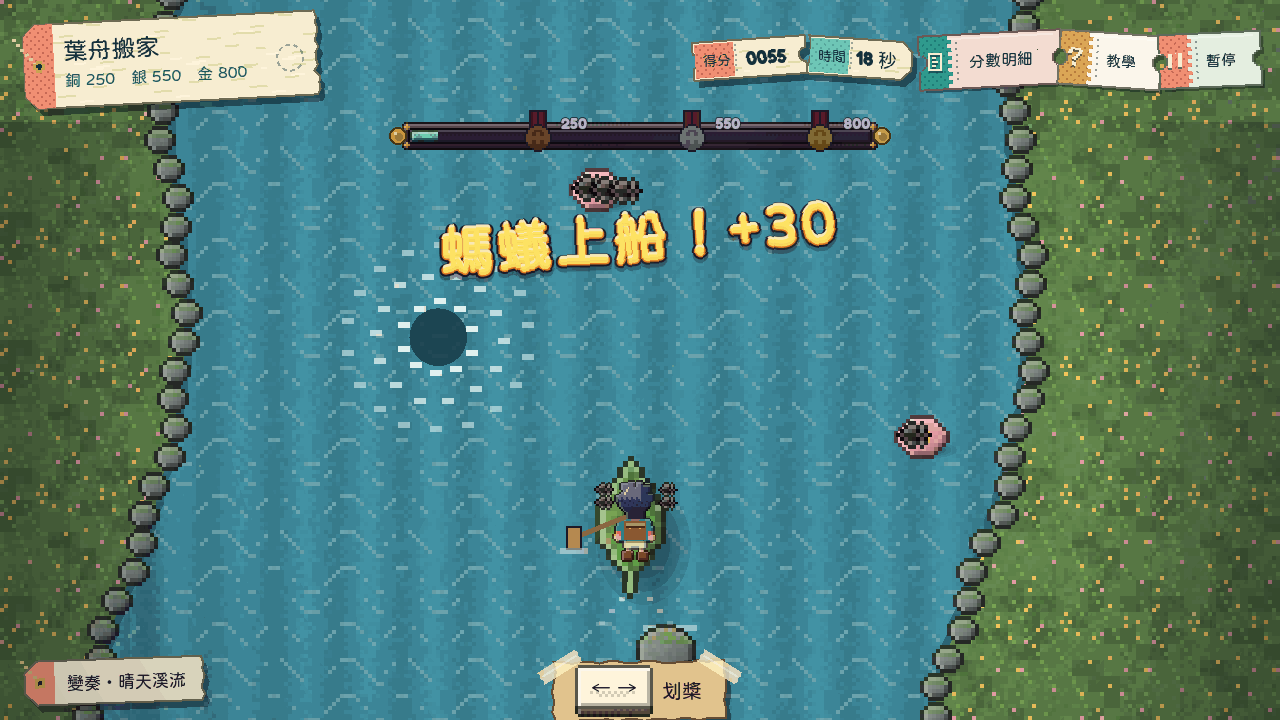
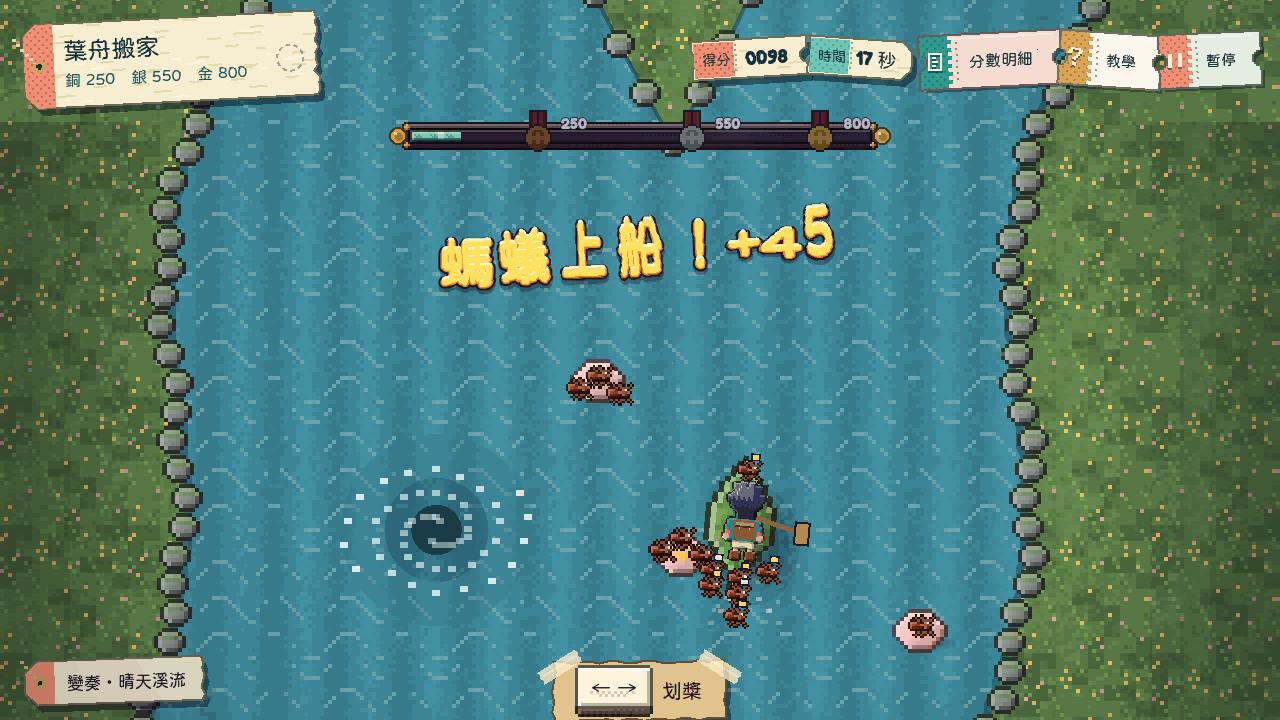
fix: draw the leaf boat ants red-brown with legs and crumbs, the rocks as mossy stones in foam and the whirlpools as spirals (SG-99)

diff --git a/pm/Snapland-small-game/[SG-99]實作葉舟搬家.md b/pm/Snapland-small-game/[SG-99]實作葉舟搬家.md
@@ -62,3 +62,23 @@
 ### 截圖
 
 ![葉子小船撞上石頭翻了過來，一排螞蟻把濕淋淋的主角頂在頭上扛向岸邊](images/SG-99-leaf-rescue.png)
+
+# Commit-2
+
+## 內文
+
+第一版的螞蟻是黑色、擠成一團，看起來像一團帶刺的黑影；花瓣上的螞蟻疊在一起變成粉紅黑色的一坨；漩渦只是一個深色圓點。
+現在螞蟻改成紅褐色：圓圓的肚子、細腰、胸和頭，頭上有一顆小亮眼、兩根彎彎的觸角，左右各三隻腳，一看就是螞蟻。花瓣顏色調淡，上面最多三隻螞蟻分開站著揮手。上了船的螞蟻排在葉子船尾和船頭、不再擠到主角身上，每一隻頭上都頂著一小塊麵包屑或糖粒，一邊走一邊上下晃（減少動態時不晃）。翻船時扛主角的四隻螞蟻間隔開來，看得出是一排螞蟻。石頭改成灰色圓石，左上受光、頂上長著青苔、底部比較暗，水流撞上石頭的那一側有一圈白色浪花，石頭後面拖出兩道細細的水痕。漩渦改成一圈較深的水面上兩條白色浪花螺旋臂往中心捲進去，中心是深色的漩渦眼。
+在原生畫面看過划槳、載螞蟻、翻船被扛走三張，規則與分數沒有改動。
+
+### 測試結果
+
+| 項目 | 結果 |
+|---|---|
+| 葉舟搬家規則 | 通過（只改畫面，規則與分數不變） |
+| 局部回歸 | 街機共用流程、場景規範通過 |
+| 設計與資料驗證 | 5 個範圍通過 |
+
+### 截圖
+
+![葉子小船翻了過來，四隻紅褐色螞蟻把濕淋淋的主角頂在頭上扛向岸邊，旁邊花瓣上的螞蟻在揮手](images/SG-99-leaf-ants.png)
